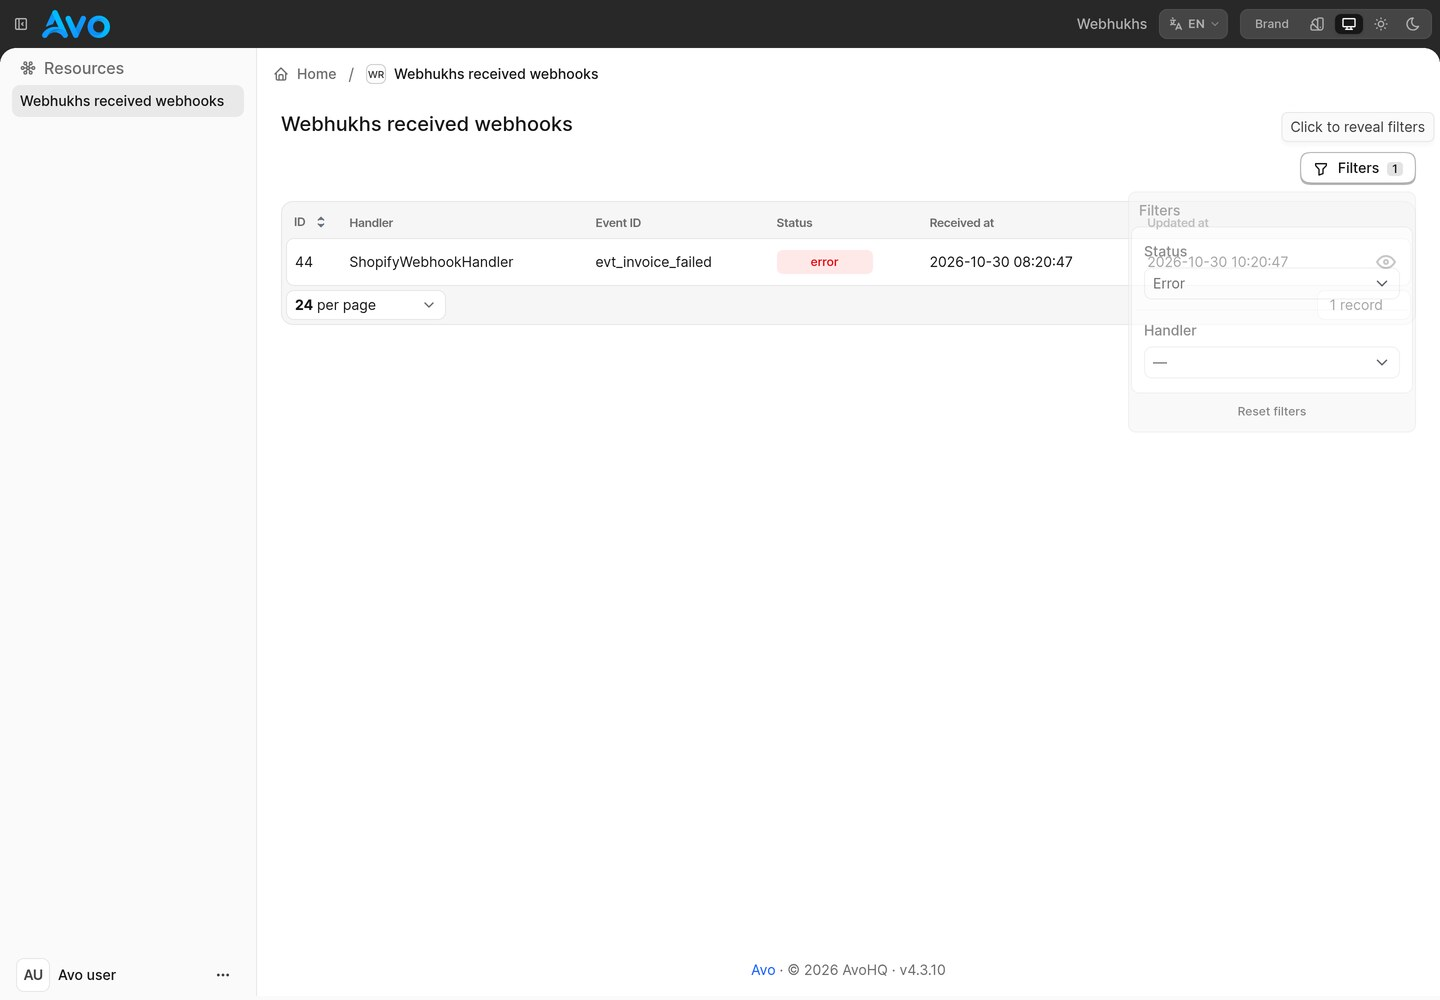
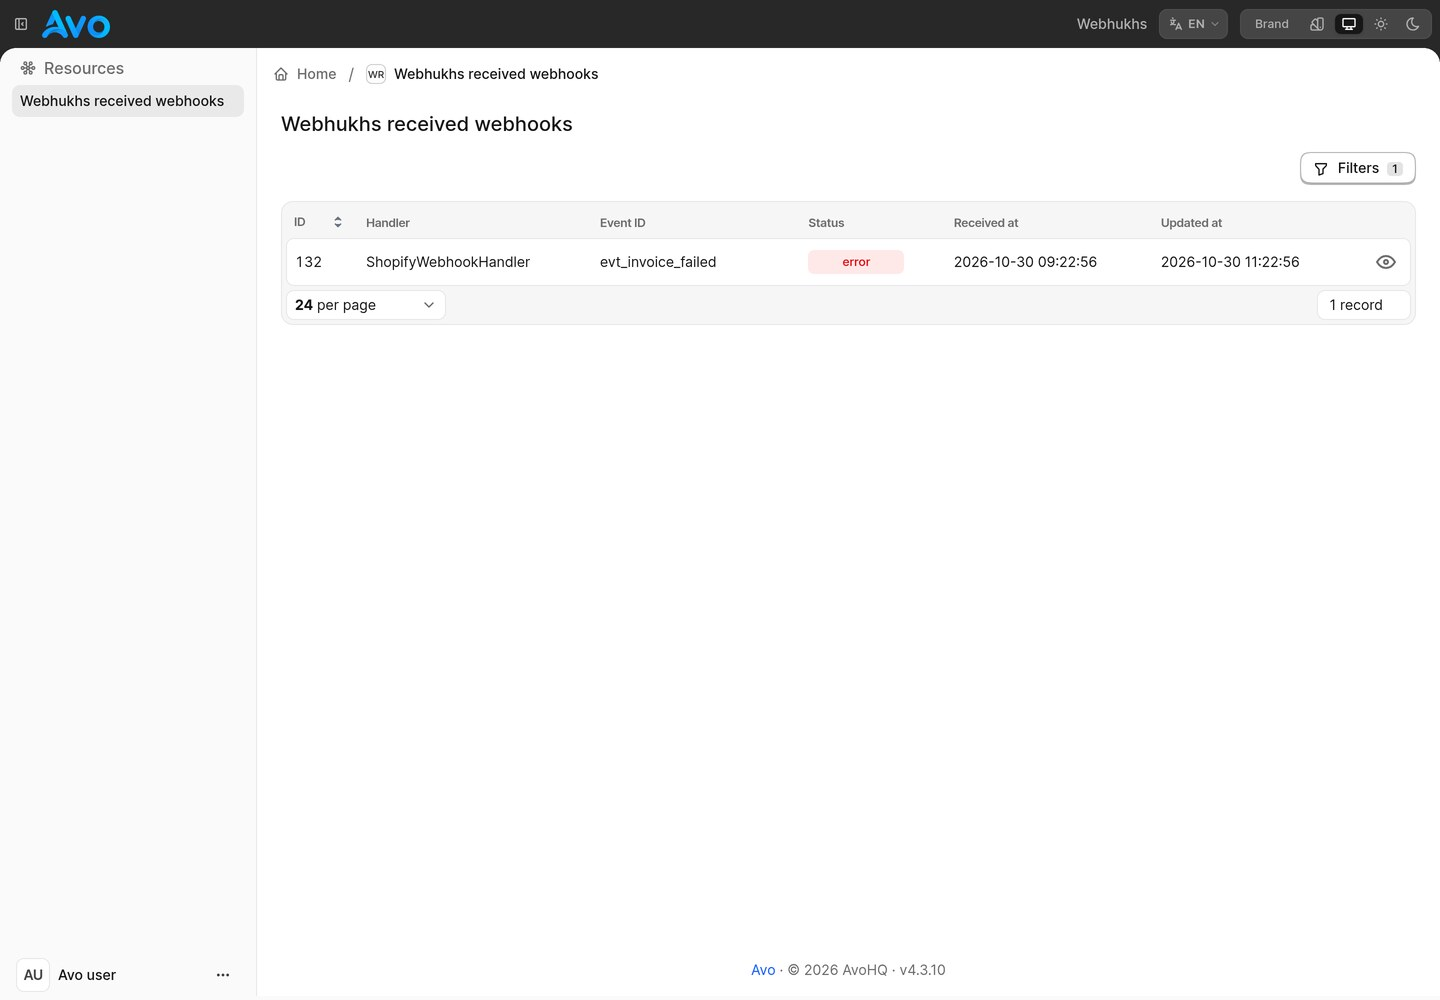
Add native copy controls for webhook details and rows
Amp-Thread-ID: https://ampcode.com/threads/T-01a18c4c-5019-7127-8d4b-62494408aa55

diff --git a/template/app/avo/resources/webhukhs_received_webhook.rb b/template/app/avo/resources/webhukhs_received_webhook.rb
@@ -6,9 +6,9 @@ class Avo::Resources::WebhukhsReceivedWebhook < Avo::BaseResource
   self.default_sort_direction = :desc
 
   def fields
-    field :id, as: :id, sortable: true
+    field :id, as: :id, sortable: true, copyable: true
     field :handler_module_name, as: :text, name: "Handler"
-    field :handler_event_id, as: :text, name: "Event ID"
+    field :handler_event_id, as: :text, name: "Event ID", copyable: true
     field :status, as: :badge, options: {
       success: ["processed"],
       warning: ["received", "processing"],
@@ -18,7 +18,7 @@ class Avo::Resources::WebhukhsReceivedWebhook < Avo::BaseResource
     field :created_at, as: :date_time, name: "Received at"
     field :updated_at, as: :date_time
     field :body, as: :code, name: "Payload", language: "javascript",
-      always_show: true, height: "300px",
+      always_show: true, height: "300px", copyable: true,
       help: "Display limited to 256 KiB. Invalid UTF-8 is replaced for display only. The stored payload is unchanged." do
       body = record.body
       text = body.byteslice(0, 256 * 1024).dup.force_encoding(Encoding::UTF_8).scrub

diff --git a/test/integration_test.rb b/test/integration_test.rb
@@ -16,6 +16,8 @@ class WebhukhsBlueprintTest < ActionDispatch::IntegrationTest
     assert_select "a[href='#{@path}/new']", count: 0
     assert_select "a[href$='/edit']", count: 0
     assert_select "[data-turbo-method='delete']", count: 0
+    assert_select '[data-clipboard-target="source"]', text: @error.id.to_s
+    assert_select '[data-clipboard-target="source"]', text: "evt_error"
     assert_operator response.body.index("evt_processed"), :<, response.body.index("evt_error")
   end
 
@@ -35,6 +37,9 @@ class WebhukhsBlueprintTest < ActionDispatch::IntegrationTest
     assert_includes response.body, "HTTP_X_EVENT_ID"
     assert_select "a[href$='/edit']", count: 0
     assert_select "[data-turbo-method='delete']", count: 0
+    assert_select '[data-clipboard-target="source"]', text: @error.id.to_s
+    assert_select '[data-clipboard-target="source"]', text: "evt_error"
+    assert_select '[data-clipboard-target="source"]', text: /\{\s*"order_id": 42\s*\}/
   end
 
   def test_plain_text_and_html_are_not_executed

diff --git a/readme.md b/readme.md
@@ -9,6 +9,7 @@ Inspect incoming webhooks alongside the rest of your Rails app in Avo. Find fail
 3. Status and handler filters, including handlers no longer registered in your app.
 4. JSON-formatted payloads and request headers, with plain-text fallback for non-JSON bodies.
 5. No create, edit, delete, or replay controls. Direct write requests are rejected too.
+6. Copy webhook IDs and event IDs from rows or details, and copy the displayed payload from details, matching the original admin's copy controls.
 
 Uses Avo's built-in fields and filters. No dashboard, custom component, or paid add-on is required.
 
